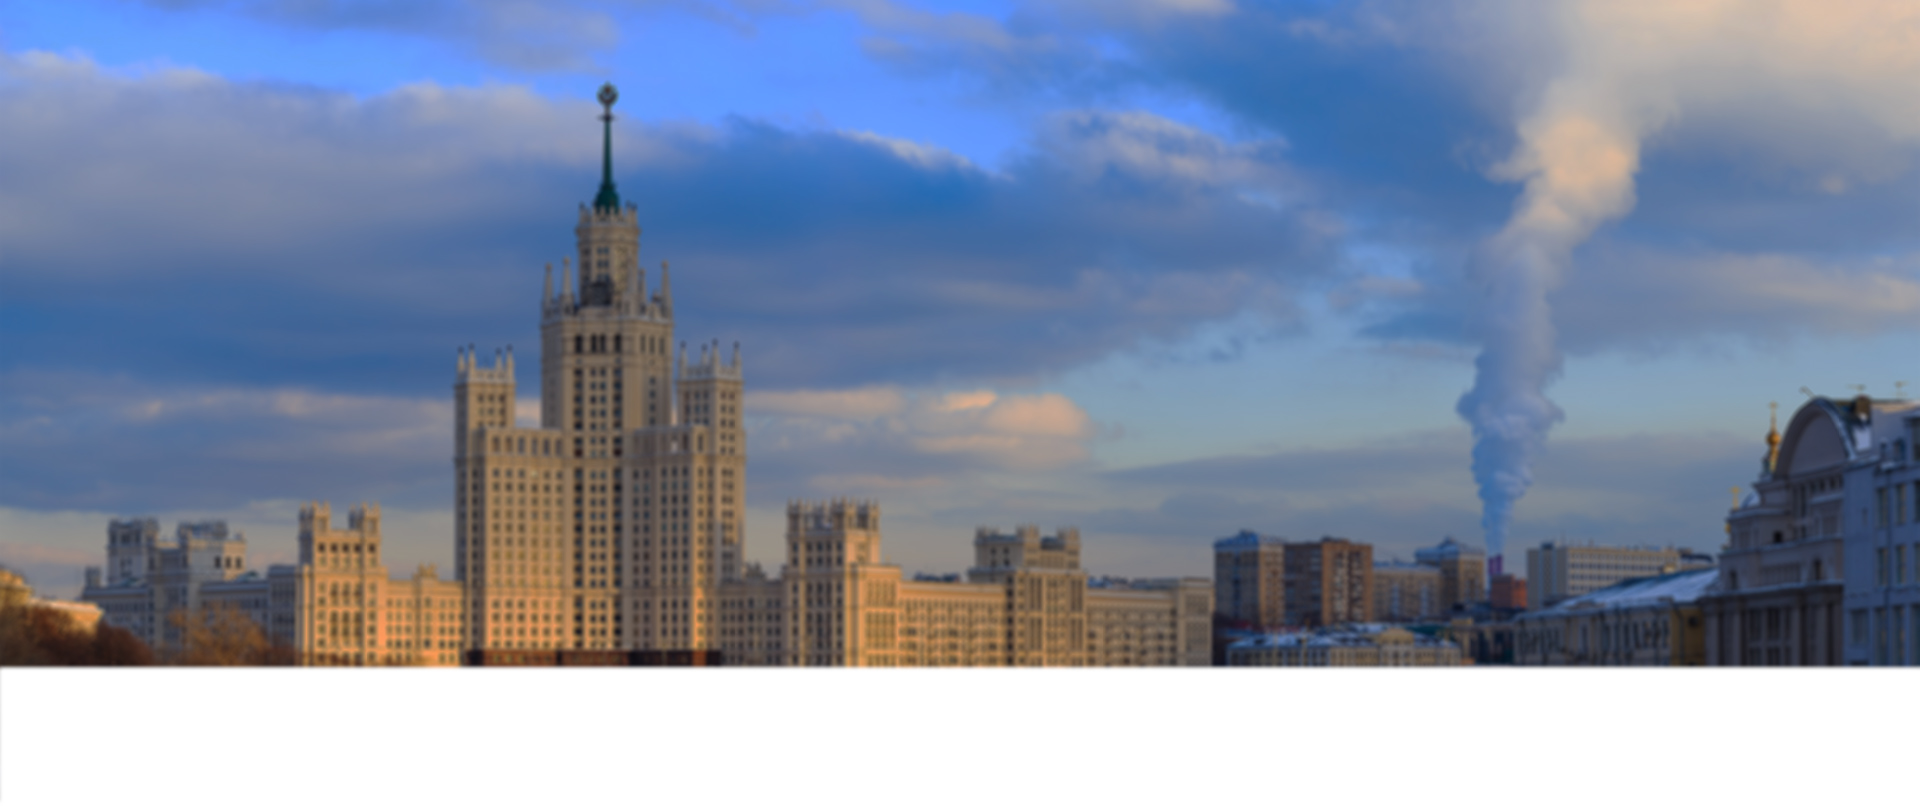
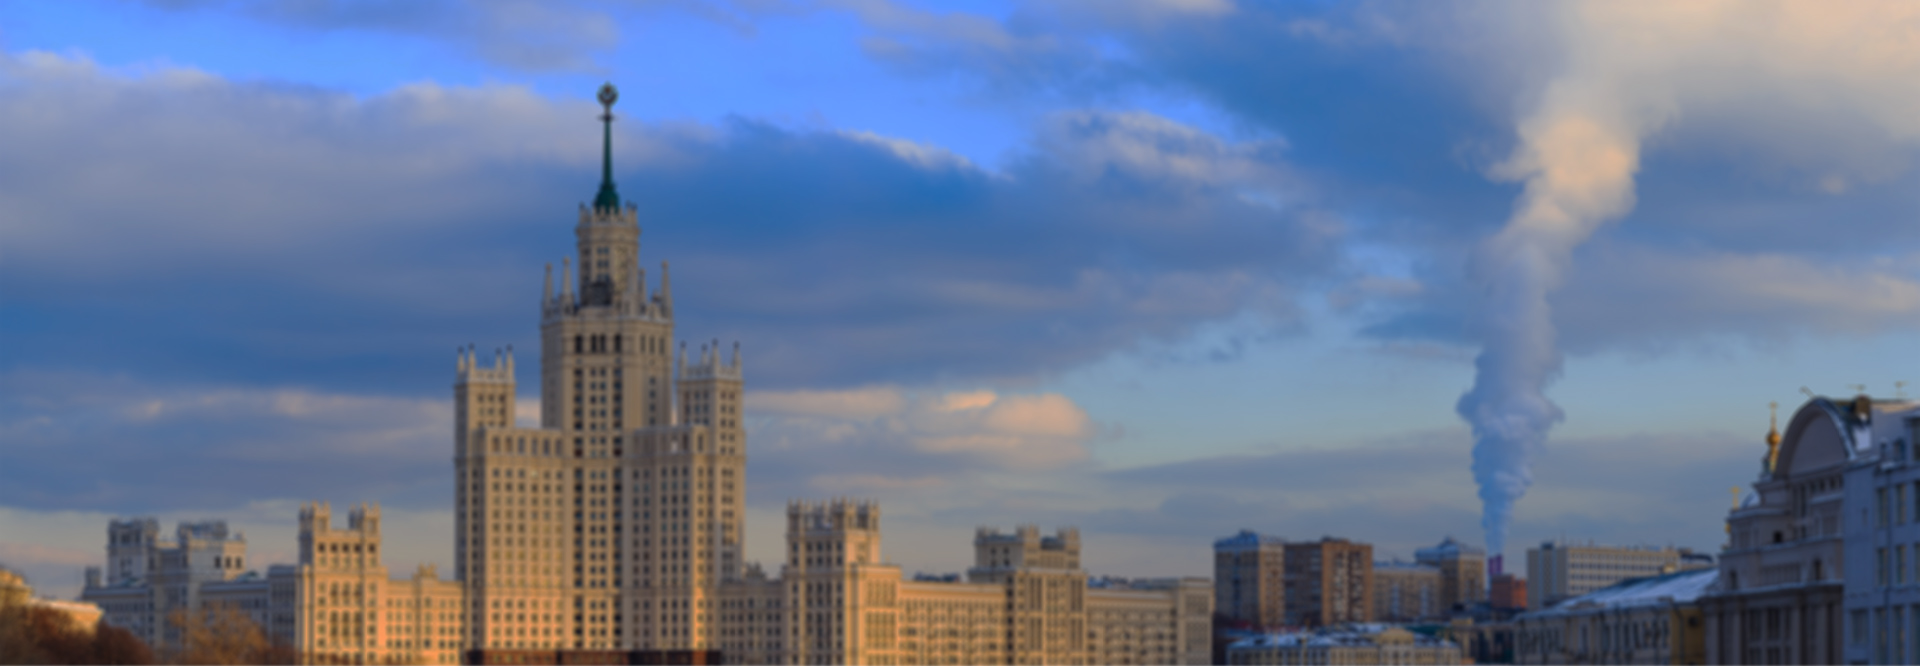
12

diff --git a/css/main.css b/css/main.css
@@ -11,7 +11,7 @@ div {
 }
 
 header {
-	background: url(../img/back.jpg)
+	background: url(../img/MainBackground.jpg)
 	 no-repeat center top /cover;
 	 height: 530px;
 }
